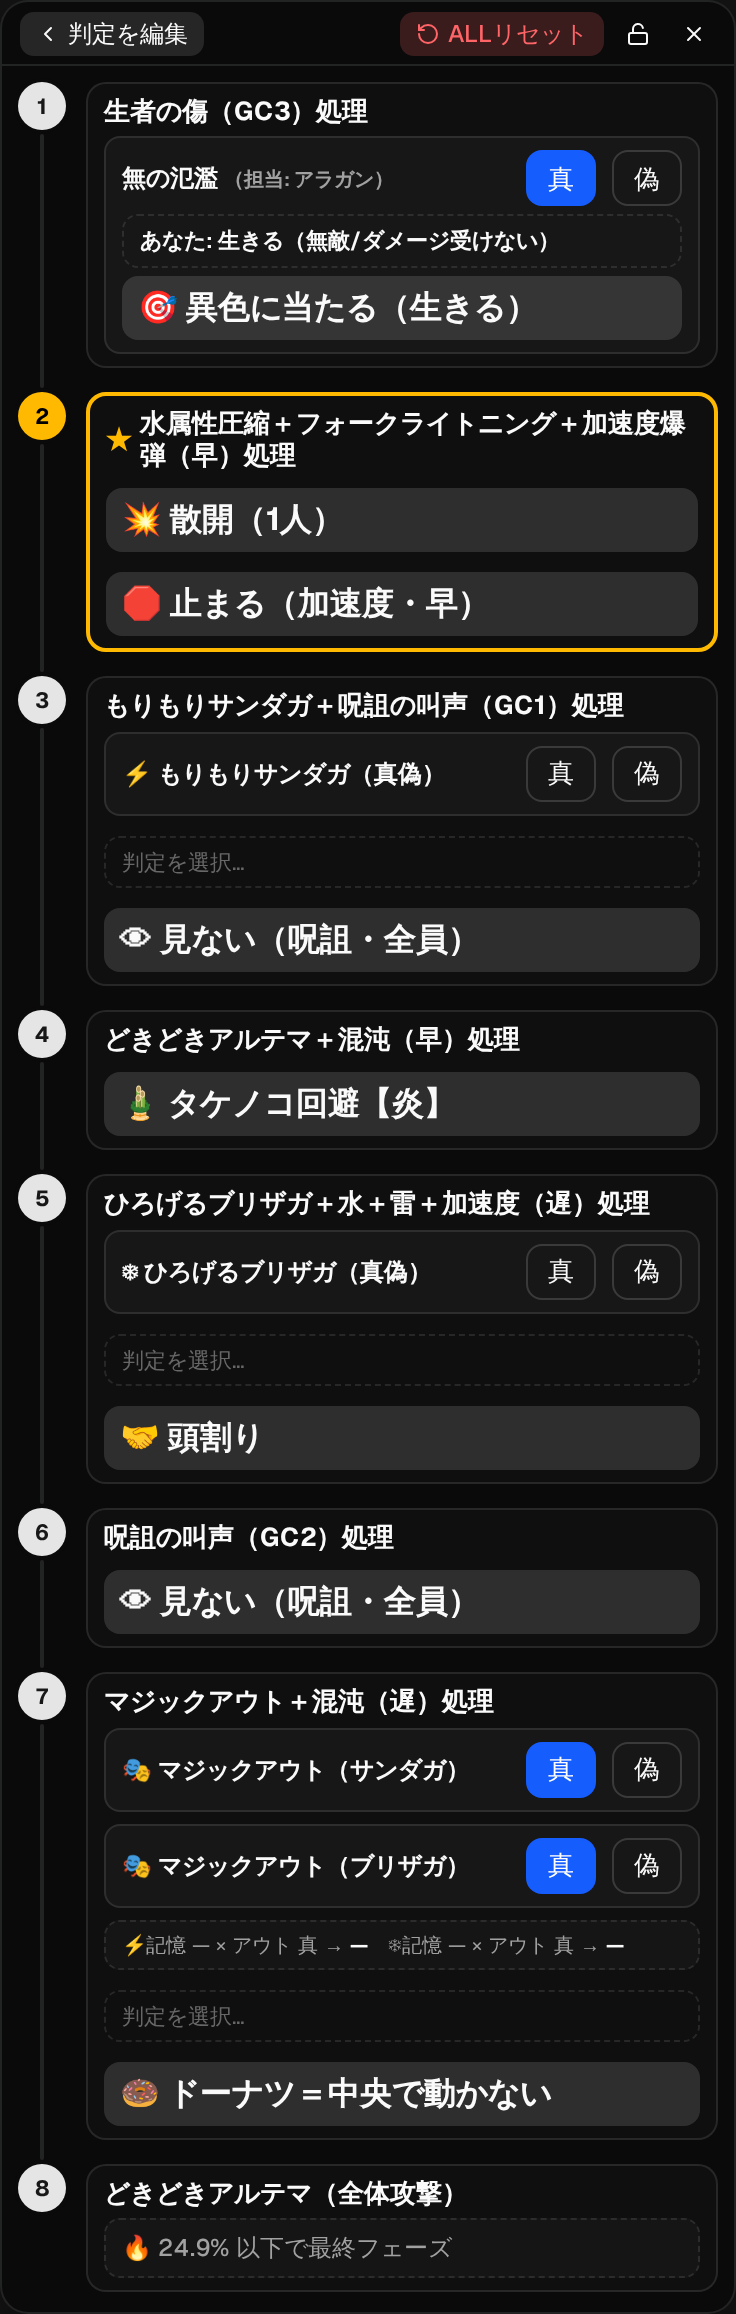
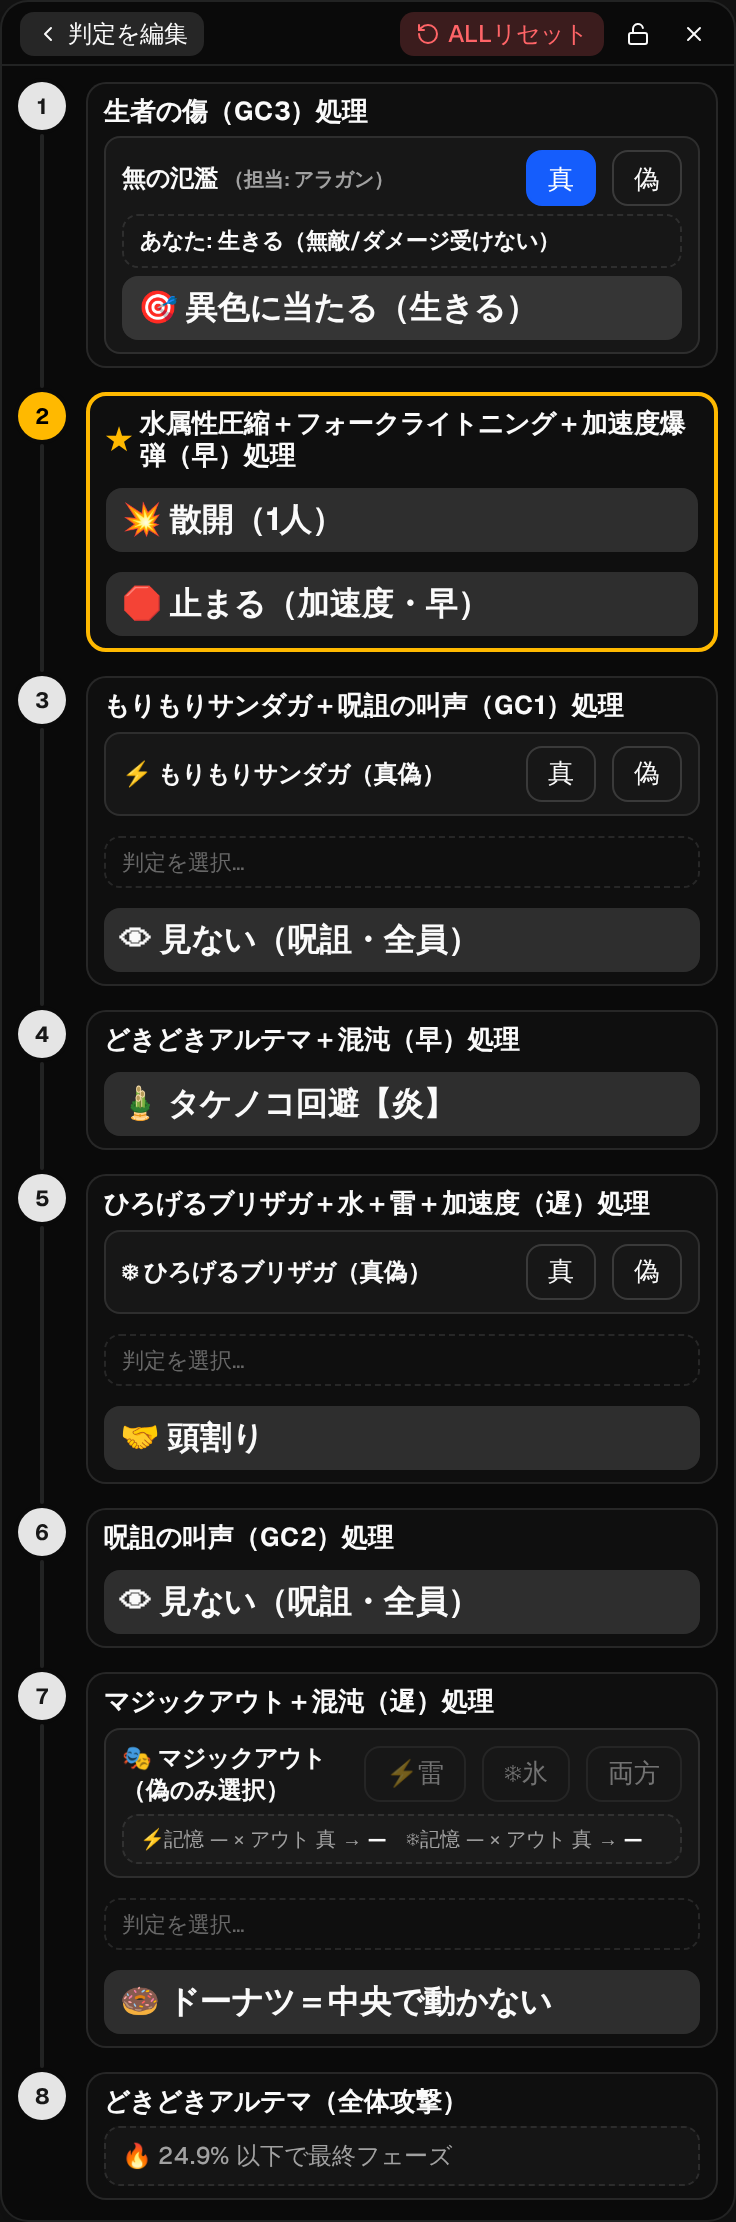
Magic out: single 3-way selector (雷/氷/両方, pick only 偽) instead of two truth toggles
- magic_out_false: ''=both真 / rai=サンダガ偽 / koori=ブリザガ偽 / both=両方偽
- derive per-spell out (shin/gi) -> magicFinal; default both 真 (no click needed)

diff --git a/src/components/p4/ProcessFlow.tsx b/src/components/p4/ProcessFlow.tsx
@@ -1,5 +1,5 @@
-import { useEffect, useMemo } from "react";
-import { ActionBar, TruthToggle, TruthInputRow, MarkerNote, ProcessStep } from "@/components/p4/primitives";
+import { useMemo } from "react";
+import { ActionBar, TruthToggle, TruthInputRow, MarkerNote, ProcessStep, SelectToggle } from "@/components/p4/primitives";
 import { raiMizuAction, tsunamiHonooAction, juso, accel, seishi, magicFinal, fumuText } from "@/p4/logic";
 import type { Choice } from "@/p4/types";
 
@@ -18,15 +18,12 @@ export function ProcessFlow({
 
   const thunda = get("magic_thunda") as Choice; // サンダガ記憶
   const blizza = get("magic_blizza") as Choice; // ブリザガ記憶
-  const outThunda = get("magic_out_thunda") as Choice; // マジックアウト（サンダガ）
-  const outBlizza = get("magic_out_blizza") as Choice; // マジックアウト（ブリザガ）
-
-  // マジックアウトは両方デフォルト「真」。偽の場所だけクリックすればよいようにする。
-  useEffect(() => {
-    if (!get("magic_out_thunda")) set("magic_out_thunda", "shin");
-    if (!get("magic_out_blizza")) set("magic_out_blizza", "shin");
-    // eslint-disable-next-line react-hooks/exhaustive-deps
-  }, []);
+  // マジックアウトは「偽の所だけ選ぶ」1欄: ""=両方真 / rai=雷(サンダガ)偽 / koori=氷(ブリザガ)偽 / both=両方偽
+  const magicOutFalse = get("magic_out_false");
+  const outThunda: Choice =
+    magicOutFalse === "rai" || magicOutFalse === "both" ? "gi" : "shin";
+  const outBlizza: Choice =
+    magicOutFalse === "koori" || magicOutFalse === "both" ? "gi" : "shin";
 
   // 各GCの真偽は1つ（gc{n}_role）。呪詛・雷水・加速度すべてをこの真偽で決める。
   const gc1Role = get("gc1_role__role");
@@ -236,18 +233,23 @@ export function ProcessFlow({
 
       {/* 7. マジックアウト＋混沌（遅） */}
       <ProcessStep index={7} name="マジックアウト＋混沌（遅）処理">
-        <TruthInputRow
-          label="🎭 マジックアウト（サンダガ）"
-          value={outThunda}
-          onChange={(v) => set("magic_out_thunda", v)}
-        />
-        <TruthInputRow
-          label="🎭 マジックアウト（ブリザガ）"
-          value={outBlizza}
-          onChange={(v) => set("magic_out_blizza", v)}
-        />
-        {(outThunda || outBlizza) && (
-          <div className="rounded-md border border-dashed bg-muted/30 px-2 py-1 text-[10px] text-muted-foreground">
+        {/* 既定は両方「真」。偽の所だけ選ぶ（雷=サンダガ / 氷=ブリザガ / 両方） */}
+        <div className="rounded-md border bg-card px-2 py-1.5">
+          <div className="flex items-center justify-between gap-2">
+            <span className="min-w-0 flex-1 text-xs font-semibold">
+              🎭 マジックアウト（偽のみ選択）
+            </span>
+            <SelectToggle
+              value={magicOutFalse}
+              onChange={(v) => set("magic_out_false", v)}
+              options={[
+                { value: "rai", label: "⚡雷" },
+                { value: "koori", label: "❄氷" },
+                { value: "both", label: "両方" },
+              ]}
+            />
+          </div>
+          <div className="mt-1 rounded-md border border-dashed bg-muted/30 px-2 py-1 text-[10px] text-muted-foreground">
             ⚡記憶 {memLabel(thunda)} × アウト {memLabel(outThunda)} →{" "}
             <b className="text-foreground">
               {thundaFinal === "shin" ? "本当" : thundaFinal === "gi" ? "嘘" : "—"}
@@ -257,7 +259,7 @@ export function ProcessFlow({
               {blizzaFinal === "shin" ? "本当" : blizzaFinal === "gi" ? "嘘" : "—"}
             </b>
           </div>
-        )}
+        </div>
         {magicOutBars.length === 0 ? (
           <ActionBar text={null} />
         ) : (